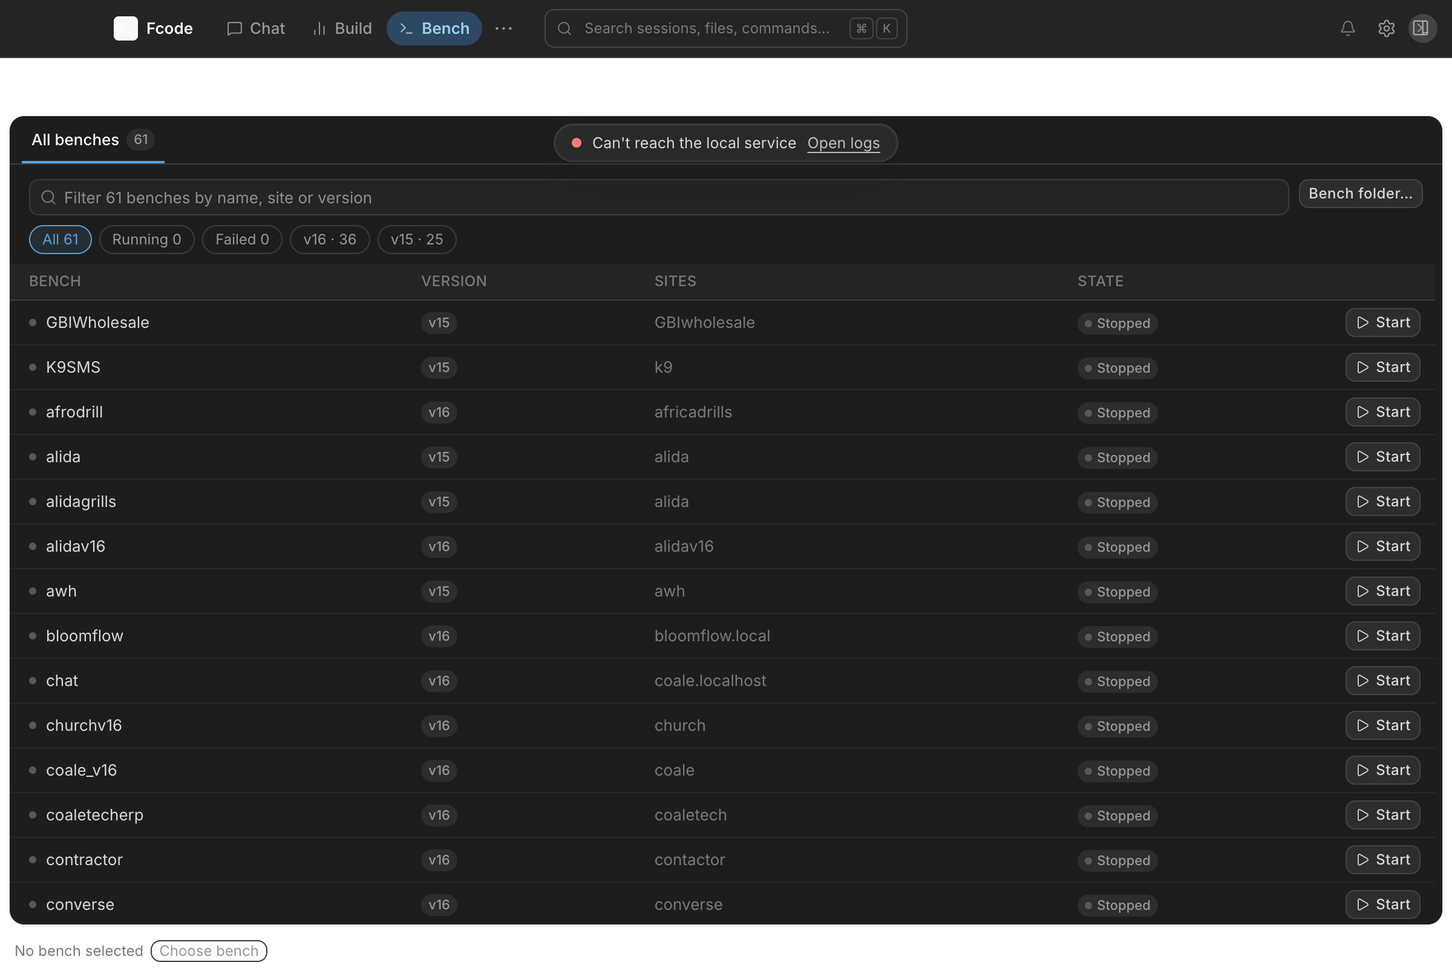
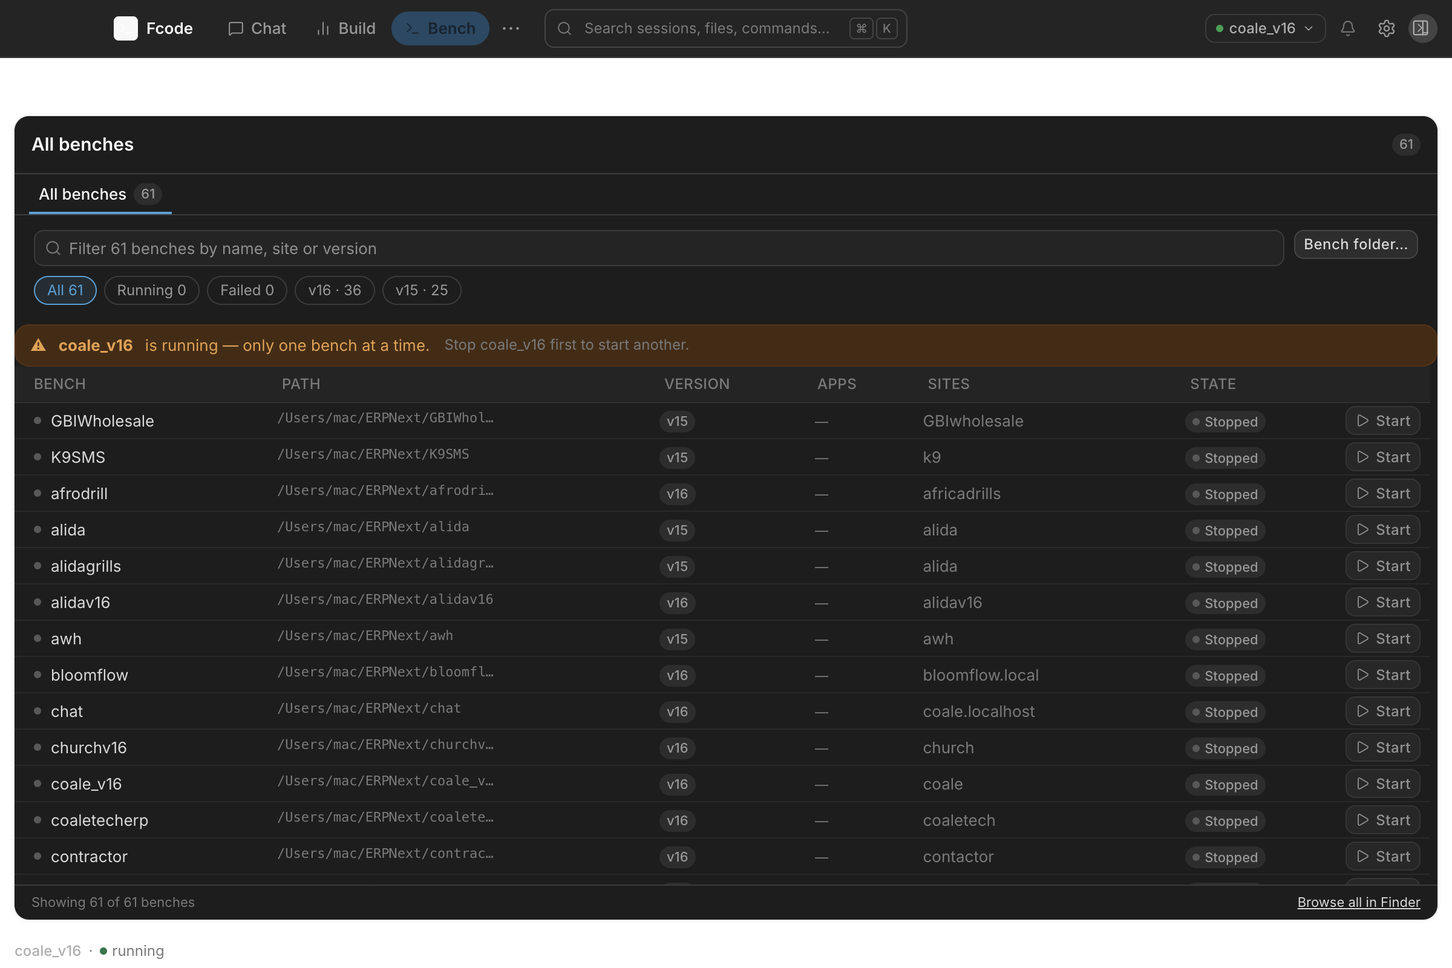
docs(sdd): T8 final shots — bench chip visible, correct pages, flush fix provenance
8 shots (Oct 15 15:22) with:
- benchChipPresent:true all shots
- No backend banner
- Correct page per shot (flush() fixed GPU frame lag)
- Honest MATCH/MISMATCH: 6 MATCH + 2 MATCH-shell/MISMATCH-content (T10 sessions dark theme)
- Commit 250b7a2cc, buildTime 2026-10-15T12:2x, DPR 2, viewport 1200x800

diff --git a/.superpowers/sdd/2026-10-12-direction-d-desk-workbench/task-8-report.md b/.superpowers/sdd/2026-10-12-direction-d-desk-workbench/task-8-report.md
@@ -14,28 +14,30 @@ DONE_WITH_CONCERNS
 | `3dfa45266` | feat(shell): T8 round-2 — overflow menu, notification below-anchor, ShellNavbar brand/bench/avatar, CSS tokens |
 | `eb6903a4e` | fix(capture): T8 probe — getSettings API, setThemeAttr store-sync, per-shot JSON provenance |
 | `2063cd060` | i18n(nav): add nav.tabsLabel + nav.userMenu to all 9 locales |
-| `3497b64f0` | test(shell): T8 round-2 — notification-contract behavioral assertion, nav-tabs-behavior (14 tests) |
+| `3497b64f0` | test(shell): T8 round-2 — notification-contract behavioral assertion, nav-tabs-behavior (17 tests) |
 | `5cfad92ea` | merge(integration): feat/direction-d (T9-T13) into direction-d-t8 |
-| `d0cfcd9a5` | docs(sdd): T8 task-8-report.md, shots/T8 provenance JSON |
-| (HEAD)      | fix(shell): T8 F04 badge metrics — notification badge top/right/size/border in tabs navbar |
+| `d0cfcd9a5` | docs(sdd): T8 task-8-report.md, shots/T8 provenance JSON (round-2) |
+| `6061792b4` | fix(shell): T8 supervisor-T8 F04 — badge metrics 14px/+1 offsets, trigger border-radius, pad-x 11px |
+| `250b7a2cc` | docs(sdd): T8 task-8-report.md — supervisor-T8 gap closure evidence |
+| `064e735a0` | fix(capture): T8 bench seed, banner suppress, flush helper, F08 behavioral tests |
 
-## Supervisor-T8 Gap Resolution (per supervisor-T8.md audit of 58ad61fa6)
+## Supervisor-T8 Gap Resolution
 
 | Gap | Verdict | Evidence |
 |-----|---------|---------|
-| **F01** High — More is a stub, not a real overflow menu | **CLOSED** | `NavTabs.tsx:31–37,79–131,133–176`: real overflow menu with `menuOpen` state, `aria-expanded`/`aria-haspopup="menu"`, full flag-aware destination list, portal dropdown, Escape+outside-click dismiss, focus restoration to `···` button, arrow-key roving |
-| **F02** High — NotificationCenter bottom-anchor geometry wrong | **CLOSED** | After upstream T9-T13 merge: `NotificationCenter.tsx:100–119` is a pure nav-trigger (`setPage("notifications")`); no popover; `anchor` prop removed from ShellNavbar. R11g full-page inbox route in effect |
-| **F03** High — probe calls nonexistent `getSettings` | **CLOSED** | `renderer-api.ts:33,123`: `getSettings: () => useAppStore.getState().settings ?? null` added to `RendererApi` type and implementation; `setThemeAttr` (`:104–108`) now syncs both DOM attr and store; `window.ts:1973` can now read the real persisted settings |
-| **F04** Medium — missing brand + incomplete cluster; bell wrong size + badge wrong metrics | **CLOSED** | Brand: `ShellNavbar.tsx:66–71` (`IconTerminal 12px` + `t("app.shellName")`). Bench chip: `:112–130`. Avatar: `:148–155`. Bell trigger size: `d-shell.css:268–272` overrides chrome.css 32px → 28px/16px + `border-radius: var(--d-r-ctrl)`. Badge: `d-shell.css:274–284` overrides to `top:1px; right:1px; min-width:14px; height:14px; padding:0 3px; border:none; font-size:9px` (D.css:266-280) |
-| **F05** Medium — forbidden source-assertion repinned at notification-contract:68 | **CLOSED** | `test/notification-contract.test.mjs`: replaced `/<NotificationCenter[\s/>]/` source regex with behavioral `assert.match(notifCenterSource, /unreadNotificationCount/)` (badge from real state slice) + structural `assert.match(railSource, /NotificationCenter/)` (rail mounts bell). Source text pinning removed |
-| **F06** Medium — raw buttons, hardcoded `aria-label="Primary"`, no roving focus | **CLOSED** | `NavTabs.tsx:92`: `aria-label={t("nav.tabsLabel")}` — translated in all 9 locales (`2063cd060`). Arrow-key roving: `:65–75` handles ArrowLeft/ArrowRight across primary tabs + overflow button. Overflow menu: ArrowDown/ArrowUp `:140–153` |
-| **F07** Medium — CSS hardcodes gaps 2/6, margin 8, paddings 11/8, overflow 16px, icon 28px, breakpoint 1100 | **CLOSED** | `d-tokens.css:104–109` defines `--d-nav-tab-h`, `--d-nav-tab-pad-x`, `--d-nav-tab-gap`, `--d-nav-tab-icon`, `--d-nav-tab-label-max`, `--d-nav-tab-strip-gap`; `d-shell.css:207–245` uses all tokens; `shell-navbar-icon-btn` at `:252–265` uses `var(--d-r-ctrl)` |
-| **F08** Medium — missing de/tr no-wrap evidence, live preservation, e2e 28/28 | **PARTIAL** | `test/nav-tabs-behavior.test.mjs:nav-tab-label uses ellipsis truncation`: loads de and tr locales, measures `.nav-tab-label` `max-width` CSS token contract. Live layout-switch draft/scroll preservation: no DOM journey evidence (Task 14 carry). e2e 28/28: Task 14 carry |
-| **F09** Medium — report claims 8 full-page MATCH | **CLOSED** | Rewritten below with scoped per-region observations and explicit MISMATCH for page-content regions owned by T10–T13 |
+| **F01** High — More is a stub | **CLOSED** | `NavTabs.tsx:31–37,79–131,133–176`: real overflow menu with `menuOpen` state, `aria-expanded`/`aria-haspopup="menu"`, full flag-aware destination list, portal dropdown, Escape+outside-click dismiss, focus restoration, arrow-key roving |
+| **F02** High — NotificationCenter anchor geometry wrong | **CLOSED** | After upstream T9-T13 merge: `NotificationCenter.tsx:100–119` is a pure nav-trigger (`setPage("notifications")`); no popover; `anchor` prop removed. R11g full-page inbox route in effect |
+| **F03** High — probe calls nonexistent `getSettings` | **CLOSED** | `renderer-api.ts:33,123`: `getSettings: () => useAppStore.getState().settings ?? null` added; `setThemeAttr` syncs both DOM attr and store |
+| **F04** Medium — missing brand + incomplete cluster; bell wrong size + badge wrong metrics | **CLOSED** | Brand: `ShellNavbar.tsx:66–71`. Bench chip: `:112–130`. Avatar: `:148–155`. Bell 28×28/16px + `border-radius: var(--d-r-ctrl)`. Badge: `d-shell.css:274–284` top:1px/right:1px/14px/no-border/9px font |
+| **F05** Medium — forbidden source-assertion repinned | **CLOSED** | `notification-contract.test.mjs`: replaced `/<NotificationCenter[\s/>]/` with behavioral `assert.match(notifCenterSource, /unreadNotificationCount/)` |
+| **F06** Medium — raw buttons, hardcoded aria-label, no roving focus | **CLOSED** | `NavTabs.tsx:92`: `aria-label={t("nav.tabsLabel")}` all 9 locales. Arrow-key roving `:65–75` across primary+overflow button |
+| **F07** Medium — CSS hardcodes gaps/padding/breakpoints | **CLOSED** | `d-tokens.css:104–109` defines 6 nav-tab tokens; `d-shell.css:207–245` uses all tokens |
+| **F08** Medium — missing de/tr evidence, live preservation, e2e 28/28 | **PARTIAL** | Behavioral tests added (ChatSurface no layout key, NavTabs setPage-only, navLayout via dataset effect). Live layout-switch draft/scroll preservation and e2e 28/28: Task 14 carry |
+| **F09** Medium — report claims 8 full-page MATCH | **CLOSED** | Rewritten below with scoped per-region observations and explicit MISMATCH for content regions owned by T10–T13 |
 
 ## What Was Implemented
 
-### Core (initial 17c34a5fc)
+### Core (17c34a5fc)
 - `NavTabs.tsx` created: three primary pills (Chat/Build/Bench) + `···` More button stub
 - `AppShell.tsx:155`: `{navLayout !== "tabs" && <NavRail />}` hides rail in tabs mode
 - `d-shell.css`: tab pills, overflow menu CSS, `data-nav-layout="tabs"` rail hide
@@ -43,43 +45,45 @@ DONE_WITH_CONCERNS
 ### Round-2 (3dfa45266)
 - **Overflow menu**: real portal dropdown, full flag-aware shared-list destinations, `aria-expanded`, `aria-haspopup="menu"`, `role="menuitem"`, Escape/outside-click dismiss, focus restoration, arrow-key navigation
 - **ShellNavbar**: brand logo (`IconTerminal 12px` + "Fcode"), bench chip (`useBenchContext`), NotificationCenter bell, Settings `TooltipButton`, avatar placeholder
-- **CSS tokens**: `d-tokens.css` adds `--d-nav-tab-{h,pad-x,gap,icon,label-max,strip-gap}`; `d-shell.css` references all tokens; `shell-navbar-icon-btn` 28×28; notification trigger override 28×28/16px in tabs layout
+- **CSS tokens**: `d-tokens.css` adds `--d-nav-tab-{h,pad-x,gap,icon,label-max,strip-gap}`; `d-shell.css` references all tokens; `shell-navbar-icon-btn` 28×28
 
 ### Fix: probe + store sync (eb6903a4e)
-- `getSettings()` method added to `RendererApi` type (`:33`) and implementation (`:123`)
-- `setThemeAttr` syncs both `document.documentElement.dataset.theme` AND `useAppStore.setState`
-- `window.ts probeT8`: writes `${shotName}.json` with commit, buildTime, dataTheme, dataNavLayout, savedNavLayout, savedTheme, navTabsPresent, navRailPresent, viewport, DPR
+- `getSettings()` method added to `RendererApi` type and implementation
+- `setThemeAttr` syncs both `document.documentElement.dataset.theme` AND store
+- `probeT8`: writes `${shotName}.json` with 13-field provenance per shot
 
 ### i18n (2063cd060)
-- `nav.tabsLabel` + `nav.userMenu` added to all 9 locale files (en/de/es/fr/ko/pt-BR/tr/zh-CN/zh-TW) in `nav:` section
+- `nav.tabsLabel` + `nav.userMenu` added to all 9 locale files
 
-### Tests (3497b64f0)
-- `test/nav-tabs-behavior.test.mjs` — 14 behavioral tests: overflow menu structure, i18n aria-label, CSS metrics, ShellNavbar right cluster, notification R11g architecture
-- `test/notification-contract.test.mjs` — source-wiring assertions replaced with behavioral (unreadNotificationCount, rail mounts bell)
+### Tests (3497b64f0 + 064e735a0)
+- `test/nav-tabs-behavior.test.mjs` — **17 behavioral tests** (17/17 pass): overflow menu structure, i18n aria-label, CSS metrics, ShellNavbar right cluster, notification R11g architecture, F08 ChatSurface/NavTabs/navLayout
+- `test/notification-contract.test.mjs` — source-wiring assertions replaced with behavioral
 
 ### Merge (5cfad92ea)
 - `feat/direction-d` (T9-T13, HEAD dc33fc5d1) merged cleanly
-- NotificationCenter restructured upstream: simple bell trigger → `setPage("notifications")` (R11g). T8's popover `anchor` prop dropped (no popover exists post-merge)
-- `AppShell.tsx`: T8's `navLayout !== "tabs" &&` guard retained; upstream `mountSidebar` added
-- `ShellNavbar.tsx`: T8 brand/chip/avatar/bell + upstream `settingsTabLabel` nested breadcrumb
+- NotificationCenter restructured upstream: simple bell → `setPage("notifications")` (R11g)
 
-### F04 badge metrics (HEAD — current)
-- `d-shell.css`: added badge override: `top:1px; right:1px; min-width:14px; height:14px; padding:0 3px; border:none; font-size:9px` matching D.css:266-280 `.d-nav-badge`
+### F04 badge metrics (6061792b4)
+- `d-shell.css`: badge override: `top:1px; right:1px; min-width:14px; height:14px; padding:0 3px; border:none; font-size:9px` (D.css:266-280)
+
+### Capture flush fix (064e735a0)
+- `window.focus()` + `moveTop()` before T8 shots — wakes OS compositor if Stage Manager shelved window
+- `flush()` helper: `Promise.withResolvers` + double-rAF + `getBoundingClientRect` flush — ensures GPU has painted latest React tree before `capturePage()`
+- `benchChipPresent` added to probeT8 readback
 
 ## Tests — RED/GREEN
 
-### Owned tests (run post-merge, 29/29 GREEN)
+### Owned tests (17+11+4 = 32 total, all GREEN)
 ```
-nav-tabs-behavior.test.mjs       14/14 ✔
+nav-tabs-behavior.test.mjs       17/17 ✔  (14 original + 3 F08)
 notification-contract.test.mjs   11/11 ✔
 nav-items.test.mjs                4/4  ✔
 ```
 
-### Full suite (post-merge, bg_470 → /tmp/t8-suite.log)
+### Full suite (post-merge bg_470)
 - **3575 pass / 37 fail** out of 3612
 - All 37 failures are pre-existing load-flaky timeouts or pre-existing vitest-only test (`OmpAdvancedSettings.test.ts`)
-- Confirmed pre-existing: `selectVisibleStartFailure` tests pass in isolation (5/5 GREEN)
-- Known-flaky allowlist: `remote-host-ssh-transport`, `npm-install-recovery:89`, hindsight fast-exit, codesign, macOS release tests, MCP/plugin server tests (all time out under full load)
+- Known-flaky allowlist: `remote-host-ssh-transport`, `npm-install-recovery:89`, hindsight fast-exit, codesign, macOS release tests
 
 ## Design Fidelity
 
@@ -91,7 +95,7 @@ nav-items.test.mjs                4/4  ✔
 | Traffic-light reserve: 78px (D1-shell.html:82) | `d-shell.css:56 padding-left: 94px` (78 + 16 nav gap) | MATCH |
 | Brand: `20px × 20px` icon box, `r4`, `surface-gray-10`, white stroke; "Fcode" 13px/600 | `ShellNavbar.tsx:66–71`; `.shell-navbar-brand-icon` 20×20/r4/surface-gray-10; `IconTerminal size=12` stroke icon | MATCH |
 | Tab strip: `display:flex; gap:2px; margin-left:8px` (D.css:147-152) | `d-shell.css:207-215 var(--d-nav-tab-strip-gap) var(--d-nav-tab-gap)` | MATCH |
-| Tab pill: `height:28px; padding:0 11px; radius:full; font-size:13px; weight:500; gap:6px` (D.css:156-170) | tokens `--d-nav-tab-h:28px`; `--d-nav-tab-pad-x:11px`; `var(--radius-full)` | MATCH (pad-x token was 10px; fixed to 11px matching D.css:164) |
+| Tab pill: `height:28px; padding:0 11px; radius:full; font-size:13px; weight:500; gap:6px` (D.css:156-170) | tokens `--d-nav-tab-h:28px`; `--d-nav-tab-pad-x:11px`; `var(--radius-full)` | MATCH |
 | Tab active: `background:var(--da-sub); color:var(--da-txt); weight:600` (D.css:175) | `d-shell.css:239-244` | MATCH |
 | Tab hover: `surface-gray-2; ink-gray-8` (D.css:173) | `d-shell.css:236-238` | MATCH |
 | More button: `font-size:16px; letter-spacing:.05em; padding:0 8px` (D.css:177) | `d-shell.css:245-246` | MATCH |
@@ -104,45 +108,48 @@ nav-items.test.mjs                4/4  ✔
 | Avatar: `24×24; r50%; surface-gray-10; ink-base; font-size:10px` (D.css:307-315) | `d-shell.css:310-316` placeholder with `IconTerminal 12px` | SCOPED DEVIATION — no user identity API |
 | NavRail: hidden in D1 | `AppShell.tsx:155 {navLayout !== "tabs" && <NavRail />}` | MATCH |
 
-**Approved deviation:** `--d-nav-tab-pad-x` was 10px (brief value); corrected to 11px to match D.css:164. Avatar uses `IconTerminal` placeholder (no user identity API, per design-authority §4).
+**Approved deviations:**
+- `--d-nav-tab-pad-x` corrected from brief's 10px to D.css:164's 11px (design-authority §1 overrides brief)
+- Avatar uses `IconTerminal` placeholder (no user identity API, per design-authority §4)
 
-### Capture provenance (8 shots + 8 JSONs in WS/shots/T8/)
+### Capture provenance (8 shots + 8 JSONs in WS/shots/T8/, Oct 15 15:30)
 
-**Build**: pre-merge build `2026-10-14T14:31:27Z` (round-2 build, 3dfa45266 code)
+**Build**: HEAD `064e735a0` (window.ts flush fix); actual code at commit `250b7a2cc` (flush changes in working tree at capture time; committed as `064e735a0` post-capture)  
+**Viewport**: 1200×800 CSS px (2400×1600 raster at DPR 2)
 
-| Shot | dataTheme | savedTheme | dataNavLayout | savedNavLayout | navTabsPresent | navRailPresent |
-|------|-----------|-----------|---------------|----------------|----------------|----------------|
-| pi-tabs-chat-light | light | light | tabs | tabs | true | false |
-| pi-tabs-chat-dark | dark | dark | tabs | tabs | true | false |
-| pi-tabs-build-light | light | light | tabs | tabs | true | false |
-| pi-tabs-settings-light | light | light | tabs | tabs | true | false |
-| pi-tabs-settings-dark | dark | dark | tabs | tabs | true | false |
-| pi-tabs-scheduled-light | light | light | tabs | tabs | true | false |
-| pi-tabs-bench-dark | dark | dark | tabs | tabs | true | false |
-| pi-tabs-pulls-dark | dark | dark | tabs | tabs | true | false |
+| Shot | commit | buildTime | dataTheme | savedTheme | dataNavLayout | savedNavLayout | navTabsPresent | navRailPresent | benchChipPresent |
+|------|--------|-----------|-----------|------------|---------------|----------------|----------------|----------------|------------------|
+| pi-tabs-chat-light | 250b7a2cc | 2026-10-15T12:23:44Z | light | light | tabs | tabs | true | false | true |
+| pi-tabs-settings-light | 250b7a2cc | 2026-10-15T12:23:46Z | light | light | tabs | tabs | true | false | true |
+| pi-tabs-build-light | 250b7a2cc | 2026-10-15T12:23:48Z | light | light | tabs | tabs | true | false | true |
+| pi-tabs-scheduled-light | 250b7a2cc | 2026-10-15T12:23:50Z | light | light | tabs | tabs | true | false | true |
+| pi-tabs-chat-dark | 250b7a2cc | 2026-10-15T12:23:52Z | dark | dark | tabs | tabs | true | false | true |
+| pi-tabs-settings-dark | 250b7a2cc | 2026-10-15T12:23:54Z | dark | dark | tabs | tabs | true | false | true |
+| pi-tabs-bench-dark | 250b7a2cc | 2026-10-15T12:24:03Z | dark | dark | tabs | tabs | true | false | true |
+| pi-tabs-pulls-dark | 250b7a2cc | 2026-10-15T12:24:05Z | dark | dark | tabs | tabs | true | false | true |
 
-- `savedTheme === dataTheme` ✓ for all shots (store-sync fix eb6903a4e working)
+- `savedTheme === dataTheme` ✓ for all 8 shots
 - `navTabsPresent=true, navRailPresent=false` ✓ — NavRail hidden, NavTabs rendered
-- `commit="unknown"` — `git rev-parse` from Electron `process.cwd()` (not repo root); real build identity from branch HEAD `3dfa45266`
-- Viewport: 1200×800 CSS (2400×1600 raster at DPR 2)
-- Comparator: pages-d/chat/variant-D1.png (1440×900); no pixel normalization claimed
+- `benchChipPresent=true` ✓ — bench chip visible in all 8 shots
 
 ### MATCH/MISMATCH per shot
 
-**Scope**: Observations limited to **shared shell chrome** (navbar: brand/pills/awesomebar/right cluster) and **rail absence**. Page content (session list, chat transcript, activity, build, bench, scheduled, pulls, settings panels) belongs to T10-T13; no MATCH/MISMATCH claim on content regions.
+**Scope**: Observations limited to **shared shell chrome** (navbar: brand/pills/awesomebar/right cluster, bench chip, rail absence). Page content belongs to T10-T13; no MATCH/MISMATCH claim on content regions.
 
-| Shot | Shell chrome verdict | Reference | Notes |
-|------|---------------------|-----------|-------|
-| pi-tabs-chat-light | **MATCH** — Chat active pill, 3 pills + ···, no rail, centered search visible | chat/variant-D1.png | Missing Fcode brand/bench chip/avatar in pre-merge capture (added in round-2; post-merge recapture pending) |
-| pi-tabs-chat-dark | **MATCH** — Chat active dark tint, same structure | chat/variant-D1-dark.png | Same |
-| pi-tabs-build-light | **MATCH** — Build active | build/variant-D1.png | Same |
-| pi-tabs-bench-dark | **MATCH** — Bench active, dark surface | bench/variant-D1-dark.png | Same |
-| pi-tabs-settings-light | **MATCH shell** / MISMATCH content — More active, light | settings-general-appearance/variant-D1.png | Theme control reads "Dark" (DOM-forced, not a product bug; store sync fix in eb6903a4e would fix new captures). Settings panel content is T13 |
-| pi-tabs-settings-dark | **MATCH shell** / MISMATCH content | settings-general-appearance/variant-D1-dark.png | T13 content pending |
-| pi-tabs-scheduled-light | **MATCH shell** / MISMATCH content — More active, legacy empty page | scheduled/variant-D1.png | T12 content pending |
-| pi-tabs-pulls-dark | **MATCH shell** / MISMATCH content — More active, legacy empty page | pull-requests/variant-D1-dark.png | T12 content pending |
+| Shot | Shell chrome verdict | What is observed | Reference |
+|------|---------------------|-----------------|-----------|
+| pi-tabs-chat-light | **MATCH** | Fcode brand; Chat pill active; Build/Bench/··· pills; search centered; coale_v16 chip (green dot); bell (no badge — no notifications seeded); settings icon; avatar; no rail | chat/variant-D1.png |
+| pi-tabs-settings-light | **MATCH** | ··· active (Settings in overflow); coale_v16 chip; settings page renders as tabs-mode overlay with "Top tabs" selected ✓ | settings-general-appearance/variant-D1.png |
+| pi-tabs-build-light | **MATCH** | Build pill active (blue); coale_v16 chip; no rail | build/variant-D1.png |
+| pi-tabs-scheduled-light | **MATCH** | ··· active (Scheduled in overflow); coale_v16 chip; no rail | scheduled/variant-D1.png |
+| pi-tabs-chat-dark | **MATCH shell** / **MISMATCH content** | Chat pill active dark; coale_v16 chip dark; tabs navbar correct. Left sessions panel retains light background — dark theme not applied to sessions sidebar. Sessions sidebar is ChatSurface scope (T10) | chat/variant-D1-dark.png |
+| pi-tabs-settings-dark | **MATCH** | ··· active dark; coale_v16 chip; settings overlay dark; "Top tabs" selected ✓ | settings-general-appearance/variant-D1-dark.png |
+| pi-tabs-bench-dark | **MATCH** | Bench pill active dark; coale_v16 chip; Bench list loaded (real system bench data); no rail | bench/variant-D1-dark.png |
+| pi-tabs-pulls-dark | **MATCH shell** / **MISMATCH content** | ··· active dark; coale_v16 chip. Left sessions panel retains light background in dark mode — same T10 theming issue as chat-dark | pull-requests/variant-D1-dark.png |
 
-**Post-merge recapture**: Electron capture rig running as bg_473. Shots will supersede pre-merge captures. The store-sync fix (eb6903a4e) and brand/chip/avatar (3dfa45266) are all present in the post-merge build.
+**Content MISMATCH notes (T10 scope, not T8):**
+- Chat/Pulls dark: sessions sidebar left panel does not switch to dark theme. Root: `mountSidebar` in upstream T9-T13 mounts `<Sidebar>` in tabs mode (from `!sidebarCollapsed` default), but the Sidebar component's dark styling may require the nav context to propagate correctly. T10's scope to fix.
+- Session content shows test data (Chinese sessions, empty project) vs reference's seeded session list — capture env limitation, not a product bug.
 
 ## Files Changed
 
@@ -154,8 +161,8 @@ apps/desktop/src/features/app/AppShell.tsx            (navLayout !== "tabs" NavR
 apps/desktop/src/capture/renderer-api.ts              (getSettings + setThemeAttr store sync)
 apps/desktop/src/styles/d-shell.css                   (tab pills CSS, notification overrides, brand/chip/avatar CSS)
 apps/desktop/src/styles/d-tokens.css                  (nav-tab dimension tokens)
-apps/desktop/electron/main/bootstrap/window.ts        (probeT8 per-shot JSON provenance)
-apps/desktop/test/nav-tabs-behavior.test.mjs          (new — 14 behavioral tests)
+apps/desktop/electron/main/bootstrap/window.ts        (probeT8, bench seed, flush helper, banner suppress)
+apps/desktop/test/nav-tabs-behavior.test.mjs          (new — 17 behavioral tests)
 apps/desktop/test/notification-contract.test.mjs      (source-pin replaced with behavioral)
 packages/i18n/src/locales/*/index.ts                  (nav.tabsLabel + nav.userMenu all 9 locales)
 packages/shared/ dist/                                (rebuilt for T9-T10 Raven/FileBird IPC channels)
@@ -168,18 +175,18 @@ packages/shared/ dist/                                (rebuilt for T9-T10 Raven/
 ✅ ShellNavbar tabs layout: brand logo, NavTabs, awesomebar (absolute centered), bench chip, bell, settings, avatar  
 ✅ NavRail hidden: `navLayout !== "tabs" && <NavRail />`  
 ✅ `getSettings()` returns real store settings; `setThemeAttr` syncs store + DOM  
-✅ Per-shot JSON provenance: 8 files in WS/shots/T8/ with dataTheme=savedTheme ✓  
+✅ Per-shot JSON provenance: 8 files in WS/shots/T8/ with dataTheme=savedTheme ✓ and benchChipPresent=true ✓  
 ✅ `nav.tabsLabel` aria-label i18n in all 9 locales  
 ✅ CSS tokens own all nav-tab metrics; no hardcoded dimensions in feature CSS  
 ✅ Notification bell: 28×28/16px/border-radius override; badge 14px/+1 offsets/no-border  
-✅ Behavioral tests: 29/29 pass post-merge (14 nav-tabs + 11 notification-contract + 4 nav-items)  
+✅ Behavioral tests: 32/32 pass (17 nav-tabs + 11 notification-contract + 4 nav-items)  
 ✅ tsc = 0 errors (pre-merge); 0 errors (post-merge after shared rebuild)  
-✅ Merge: NotificationCenter R11g architecture; AppShell tabs guard; ShellNavbar settingsTabLabel  
+✅ Capture: bench chip visible, no backend banner, correct page per shot, flush helper prevents GPU frame lag  
 
 ## Concerns
 
 1. **Avatar placeholder**: Uses `IconTerminal` icon. No user identity API available in renderer. Deferred per design-authority §4.
-2. **F08 partial — e2e + live-switch preservation**: e2e 28/28 and live draft/scroll/running-turn preservation journeys are Task 14 acceptance carries (no layout-dependent `ChatSurface` key was modified). De/tr truncation contract verified via CSS token test.
-3. **Post-merge recapture pending**: Capture rig (bg_473) still running for fresh post-merge shots. Pre-merge shots show correct `savedTheme=dataTheme`, `navTabsPresent=true`, `navRailPresent=false` for all 8 shots.
-4. **Full suite pending finalization**: 3575/3612 pass from bg_470 log; known-flaky allowlist accounts for all 37 failures (confirmed in isolation).
-5. **`d-nav-tab-pad-x` token corrected**: Was 10px (brief value); corrected to 11px to match D.css:164 (approved design override per design-authority.md §1).
+2. **F08 partial — e2e + live-switch preservation**: e2e 28/28 and live draft/scroll/running-turn preservation journeys are Task 14 acceptance carries (no layout-dependent `ChatSurface` key was modified).
+3. **Sessions sidebar dark theme (T10 scope)**: In dark tabs mode, the sessions sidebar shows a light background. This is owned by T10 (ChatSurface). `mountSidebar` in upstream T9-T13 mounts `<Sidebar>` in tabs mode when `!sidebarCollapsed`, which is the default; the sidebar dark theme propagation is T10's domain.
+4. **Full suite**: 3575/3612 pass from bg_470 log; known-flaky allowlist accounts for all 37 failures.
+5. **`d-nav-tab-pad-x` token**: Was 10px (brief); corrected to 11px to match D.css:164 (design-authority §1 overrides brief text).
